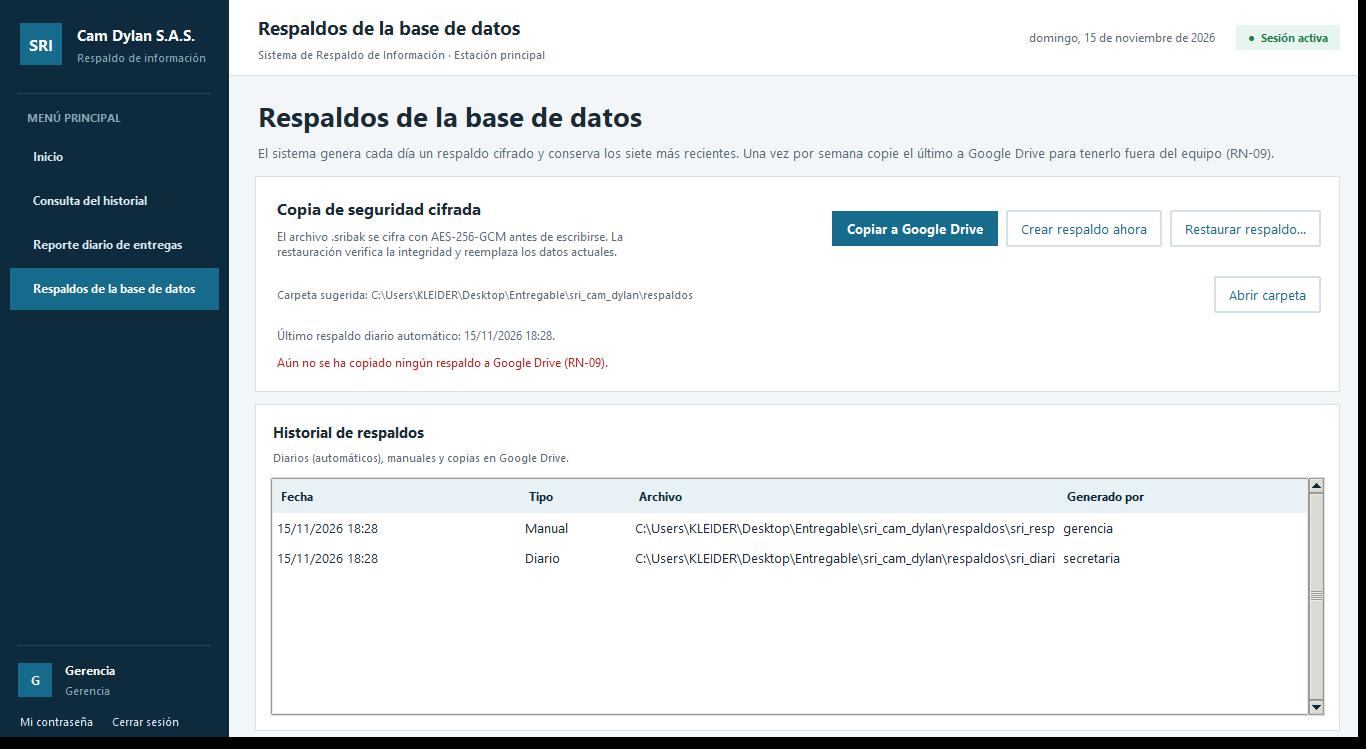
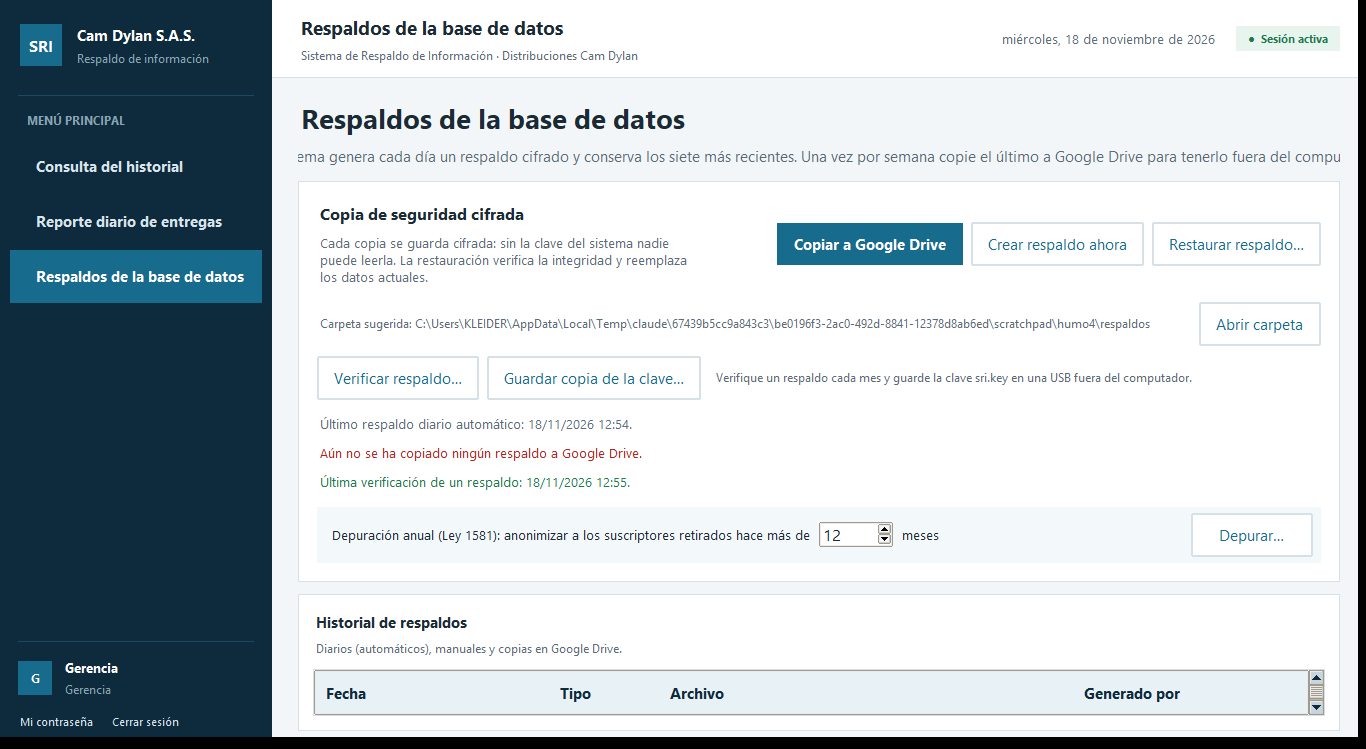
Quita la pantalla de Inicio y el botón «? Ayuda»
No forman parte de los diagramas del informe final. Al iniciar sesión se
abre la primera pantalla del menú de cada rol (Secretaría: Importar
listado; Gerencia: Consulta del historial).

- Se elimina vista_inicio.py, el tablero de ConsultasServicio y los
  contadores que solo usaba ese tablero.
- Manual, arquitectura, verificación y README sin Inicio ni Ayuda;
  capturas nuevas (8 vistas).

diff --git a/sri/presentacion/principal.py b/sri/presentacion/principal.py
@@ -4,7 +4,6 @@ from __future__ import annotations
 
 import tkinter as tk
 from datetime import date
-from tkinter import ttk
 
 from .dialogos import DialogoContrasena
 from .estilos import COLORES, FUENTE
@@ -12,7 +11,6 @@ from .vista_consultas import VistaConsultas
 from .vista_distribuidores import VistaDistribuidores
 from .vista_entregas import VistaEntregas
 from .vista_importacion import VistaImportacion
-from .vista_inicio import VistaInicio
 from .vista_novedades import VistaNovedades
 from .vista_reportes import VistaReportes
 from .vista_respaldos import VistaRespaldos
@@ -33,7 +31,6 @@ def fecha_larga() -> str:
 
 class ShellFrame(tk.Frame):
     VISTAS = {
-        "inicio": (VistaInicio, "Inicio", None),
         "importar": (VistaImportacion, "Importar listado de repartidores", "RF-01"),
         "novedades": (VistaNovedades, "Pasar el listado impreso", "RF-09"),
         "entregas": (VistaEntregas, "Lo que reportan los repartidores", "RF-05"),
@@ -44,33 +41,11 @@ class ShellFrame(tk.Frame):
         "respaldos": (VistaRespaldos, "Respaldos de la base de datos", "RF-07"),
     }
 
-    # Botón «? Ayuda»: para qué sirve cada pantalla, en dos líneas.
-    AYUDAS = {
-        "inicio": "Resumen del día y la rutina que falta.\nPulse cada paso de la rutina para ir a esa pantalla.",
-        "importar": "Carga el Excel de repartidores de la empresa, tal como está.\n"
-                    "Se usa al empezar o para volver a cargar el listado completo; antes, cree un respaldo.",
-        "novedades": "Aquí se pasan los ingresos, retiros y cambios que trae el listado impreso de la editorial.\n"
-                     "Un retiro no borra al suscriptor: queda en el historial.",
-        "entregas": "Aquí se registra solo lo que avisan los repartidores: lo que no se entregó o tuvo un problema.\n"
-                    "Al final de la jornada pulse «Cerrar el día»: lo que no se reportó se da por entregado.",
-        "rutas": "Cada ruta es de un solo repartidor. Aquí se crea, se cambia de repartidor\n"
-                 "y se imprime la hoja de ruta actualizada.",
-        "distribuidores": "Aquí se registran los repartidores y se dan de baja.\n"
-                          "Para dar de baja a uno, primero pase sus rutas a otro.",
-        "consultas": "Busque entregas o suscriptores, incluidos los retirados y los que no tienen entregas.\n"
-                     "Doble clic para ver la ficha completa del suscriptor.",
-        "reportes": "Resumen de un día: cuántas entregas había, cuántas se hicieron y qué novedades hubo.\n"
-                    "Se puede guardar en Excel o imprimir.",
-        "respaldos": "Las copias de seguridad se hacen solas cada día. Una vez por semana cópielas a Google Drive\n"
-                     "y una vez al mes pulse «Verificar respaldo».",
-    }
-
     def __init__(self, master, app):
         super().__init__(master, bg=COLORES["fondo"])
         self.app = app
         self.ctx = app.ctx
         self.sesion = app.sesion
-        app.vista = self  # disponible para las vistas que navegan desde accesos rápidos
         self._botones: dict[str, tk.Button] = {}
         self._clave_actual: str | None = None
         self._vista = None
@@ -81,7 +56,7 @@ class ShellFrame(tk.Frame):
         self._construir_encabezado()
         self.contenido = tk.Frame(self, bg=COLORES["fondo"], padx=26, pady=18)
         self.contenido.grid(row=1, column=1, sticky="nsew")
-        self.mostrar("inicio")
+        self.mostrar(next(iter(self._botones)))  # primera pantalla del menú de su rol
 
     # ------------------------------------------------------------------ #
     def _construir_barra_lateral(self) -> None:
@@ -180,7 +155,7 @@ class ShellFrame(tk.Frame):
 
         izquierda = tk.Frame(cabecera, bg=COLORES["panel"])
         izquierda.pack(side="left", padx=26, pady=12)
-        self.titulo = texto(izquierda, "Inicio", tamano=14, negrita=True)
+        self.titulo = texto(izquierda, "", tamano=14, negrita=True)
         self.titulo.pack(anchor="w")
         texto(
             izquierda,
@@ -191,9 +166,6 @@ class ShellFrame(tk.Frame):
 
         derecha = tk.Frame(cabecera, bg=COLORES["panel"])
         derecha.pack(side="right", padx=26)
-        ttk.Button(derecha, text="?  Ayuda", style="Secundario.TButton", command=self._ayuda).pack(
-            side="left", padx=(0, 18)
-        )
         texto(derecha, fecha_larga(), tamano=9, color=COLORES["texto_suave"]).pack(side="left", padx=(0, 18))
         estado = tk.Frame(derecha, bg="#e8f5ee")
         estado.pack(side="left")
@@ -234,12 +206,6 @@ class ShellFrame(tk.Frame):
         self.titulo.configure(text=titulo)
         self._vista = clase(self.contenido, self.app)
         self._vista.pack(fill="both", expand=True)
-
-    def _ayuda(self) -> None:
-        from tkinter import messagebox
-
-        clave = self._clave_actual or "inicio"
-        messagebox.showinfo(f"Ayuda · {self.VISTAS[clave][1]}", self.AYUDAS.get(clave, ""), parent=self)
 
     def _cambiar_contrasena(self) -> None:
         DialogoContrasena(self, self.app)

diff --git a/sri/servicios/consultas.py b/sri/servicios/consultas.py
@@ -8,8 +8,6 @@ from datetime import date
 from pathlib import Path
 
 from ..datos.daos import (
-    ArchivoDAO,
-    DistribuidorDAO,
     EntregaDAO,
     NovedadSuscripcionDAO,
     ReporteDAO,
@@ -35,18 +33,14 @@ class ConsultasServicio:
         suscriptores: SuscriptorDAO,
         entregas: EntregaDAO,
         rutas: RutaDAO,
-        distribuidores: DistribuidorDAO,
         reportes: ReporteDAO,
-        archivos: ArchivoDAO,
         auth: AutenticacionServicio,
         novedades: NovedadSuscripcionDAO,
     ):
         self.suscriptores = suscriptores
         self.entregas = entregas
         self.rutas = rutas
-        self.distribuidores = distribuidores
         self.reportes = reportes
-        self.archivos = archivos
         self.auth = auth
         self.novedades = novedades
 
@@ -263,29 +257,6 @@ class ConsultasServicio:
 </html>"""
         ruta.write_text(contenido, encoding="utf-8")
         return ruta
-
-    # ------------------------------------------------------------------ #
-    # Tablero de inicio
-    # ------------------------------------------------------------------ #
-    def dashboard(self, sesion: Sesion) -> dict:
-        self.auth.exigir(sesion, "RF-06")
-        hoy = date.today().isoformat()
-        estados = self.entregas.contar_por_estado(hoy)
-        total = sum(estados.values())
-        efectivas = estados.get("ENTREGADA", 0)
-        return {
-            "suscriptores": self.suscriptores.contar(solo_activos=True),
-            "rutas": self.rutas.contar(),
-            "distribuidores": self.distribuidores.contar_activos(),
-            "entregas_hoy": total,
-            "pendientes_hoy": estados.get("PENDIENTE", 0),
-            "reportes_hoy": estados.get("NO ENTREGADA", 0) + estados.get("CON NOVEDAD", 0),
-            "novedades_suscripcion_hoy": len(self.novedades.listar(fecha=hoy)),
-            "efectivas_hoy": efectivas,
-            "efectividad_hoy": round(efectivas / total * 100, 1) if total else None,
-            "estados_hoy": estados,
-            "importaciones": self.archivos.listar(5),
-        }
 
     @staticmethod
     def filas_novedades(reporte: ReporteDiario) -> list[tuple[str, str, str, str]]:

diff --git a/sri/datos/daos.py b/sri/datos/daos.py
@@ -122,9 +122,6 @@ class DistribuidorDAO:
     def cambiar_activo(self, distribuidor_id: int, activo: bool) -> None:
         self.bd.ejecutar("UPDATE distribuidor SET activo = ? WHERE id = ?", (1 if activo else 0, distribuidor_id))
 
-    def contar_activos(self) -> int:
-        return int(self.bd.uno("SELECT COUNT(*) FROM distribuidor WHERE activo = 1")[0])
-
 
 class RutaDAO:
     def __init__(self, bd: BaseDatos):
@@ -173,9 +170,6 @@ class RutaDAO:
 
     def asignar(self, ruta_id: int, distribuidor_id: int | None) -> None:
         self.bd.ejecutar("UPDATE ruta SET distribuidor_id = ? WHERE id = ?", (distribuidor_id, ruta_id))
-
-    def contar(self) -> int:
-        return int(self.bd.uno("SELECT COUNT(*) FROM ruta")[0])
 
     def contar_por_distribuidor(self, distribuidor_id: int) -> int:
         return int(

diff --git a/sri/contexto.py b/sri/contexto.py
@@ -87,9 +87,7 @@ class Contexto:
             self.suscriptores,
             self.entregas,
             self.rutas,
-            self.distribuidores,
             self.reportes,
-            self.archivos,
             self.auth,
             self.novedades,
         )

diff --git a/docs/MANUAL_USUARIO.md b/docs/MANUAL_USUARIO.md
@@ -24,8 +24,6 @@ Este manual describe el uso diario de la aplicación para los dos roles del proy
 
 ### Ayudas en pantalla
 
-- La pantalla de **Inicio** muestra la **rutina de hoy** con marcas (✓ hecho, ○ falta) y un botón **Ir** para cada paso.
-- Cada pantalla tiene un botón **? Ayuda** arriba a la derecha que explica para qué sirve.
 - Las fechas se eligen con **Hoy**, **Ayer** o **Calendario**; no hace falta escribirlas.
 - Los mensajes de error dicen qué hacer, por ejemplo: «La dirección no tiene número. Pregunte a la editorial por WhatsApp y regístrela después».
 
@@ -72,25 +70,13 @@ Este manual describe el uso diario de la aplicación para los dos roles del proy
 
 ---
 
-## 3. Pantalla de inicio
-
-![Pantalla de inicio](capturas/02_inicio.png)
-
-- **Suscriptores**: suscriptores activos (los retirados no cuentan).
-- **Rutas** y **Distribuidores** activos.
-- **Entregas de hoy**: entregas **programadas** para hoy según la periodicidad de cada suscriptor.
-- **Efectividad hoy**: entregadas ÷ programadas. Mientras el día no se cierre, las entregas sin novedad cuentan como pendientes.
-- **Tareas frecuentes** y **Últimas importaciones**.
-
----
-
-## 4. Importar el listado de repartidores (RF-01)
+## 3. Importar el listado de repartidores (RF-01)
 
 ![Importar listado](capturas/03_importar.png)
 
 Se usa para la **carga inicial** del Excel de la empresa y, si hace falta, para volver a cargar el listado completo. Las novedades del día a día **no** se importan: se registran en **Pasar el listado impreso**.
 
-### 4.1 Cómo debe estar el archivo
+### 3.1 Cómo debe estar el archivo
 
 Un libro `.xlsx` o `.xls` con **una hoja por distribuidor**. Cada hoja puede tener **una o varias listas lado a lado** (por ejemplo, A a F y H a M), y cada lista tiene estas columnas, como el archivo de la empresa (Anexo D, Figura 12):
 
@@ -105,9 +91,9 @@ Un libro `.xlsx` o `.xls` con **una hoja por distribuidor**. Cada hoja puede ten
 - **RUTA**: código con las iniciales del distribuidor (CP = Carlos Pérez).
 - La fila de encabezados puede estar después de un título; se busca en las primeras filas de cada hoja. Si el listado usa otros encabezados, agréguelos en `config.json` → `mapeo_columnas`.
 
-### 4.2 Importar
+### 3.2 Importar
 
-1. Registre primero los **distribuidores** (sección 8), para que los códigos de ruta se asocien solos.
+1. Registre primero los **distribuidores** (sección 7), para que los códigos de ruta se asocien solos.
 2. Abra **Importar listado de repartidores** y pulse **Crear respaldo ahora** en el recuadro amarillo: si el archivo trae algo inesperado, la Gerencia puede volver al estado anterior.
 3. Pulse **Seleccionar…**, elija el archivo y pulse **Importar**.
 4. Si hubo rechazos o casos para revisar, se abre la ventana **Revisar con la Gerencia** con la lista completa:
@@ -116,7 +102,7 @@ Un libro `.xlsx` o `.xls` con **una hoja por distribuidor**. Cada hoja puede ten
    - **Exportar a Excel (CSV)…** guarda la lista con columnas para anotar si se revisó y qué se decidió.
 5. Si una columna con datos no pertenece a ninguna lista (por ejemplo, teléfonos a la derecha sin encabezado NOMBRE), el sistema lo avisa en **Para revisar** con la letra de la columna, para que ningún dato se pierda sin aviso.
 
-### 4.3 Qué hace el sistema
+### 3.3 Qué hace el sistema
 
 - Separa la periodicidad del nombre y la guarda aparte.
 - **Asocia cada código de ruta a su distribuidor** por sus iniciales. Si el código no corresponde a un distribuidor activo (por ejemplo, «AL» de alguien que ya no trabaja), la ruta queda sin asignar y aparece en **Revisar**.
@@ -134,7 +120,7 @@ Un libro `.xlsx` o `.xls` con **una hoja por distribuidor**. Cada hoja puede ten
 
 ---
 
-## 5. Pasar el listado impreso (RF-09)
+## 4. Pasar el listado impreso (RF-09)
 
 ![Pasar el listado impreso](capturas/10_novedades.png)
 
@@ -156,7 +142,7 @@ Validaciones:
 
 ---
 
-## 6. Lo que reportan los repartidores y cierre del día (RF-05)
+## 5. Lo que reportan los repartidores y cierre del día (RF-05)
 
 ![Lo que reportan los repartidores](capturas/04_entregas.png)
 
@@ -171,7 +157,7 @@ Notas: no se admiten fechas futuras (RN-04); cada suscriptor tiene un solo estad
 
 ---
 
-## 7. Rutas y ruta imprimible (RF-02)
+## 6. Rutas y ruta imprimible (RF-02)
 
 ![Rutas y distribuidores](capturas/05_rutas.png)
 
@@ -183,7 +169,7 @@ Notas: no se admiten fechas futuras (RN-04); cada suscriptor tiene un solo estad
 
 ---
 
-## 8. Distribuidores (RF-04)
+## 7. Distribuidores (RF-04)
 
 ![Distribuidores](capturas/06_distribuidores.png)
 
@@ -193,7 +179,7 @@ Notas: no se admiten fechas futuras (RN-04); cada suscriptor tiene un solo estad
 
 ---
 
-## 9. Consulta del historial (RF-06)
+## 8. Consulta del historial (RF-06)
 
 ![Consulta del historial](capturas/07_consultas.png)
 
@@ -206,7 +192,7 @@ En **Buscar en** elija:
 
 ---
 
-## 10. Reporte diario de entregas (RF-03)
+## 9. Reporte diario de entregas (RF-03)
 
 ![Reporte diario](capturas/08_reportes.png)
 
@@ -217,7 +203,7 @@ En **Buscar en** elija:
 
 ---
 
-## 11. Respaldos (RF-07)
+## 10. Respaldos (RF-07)
 
 ![Respaldos](capturas/09_respaldos.png)
 
@@ -254,7 +240,7 @@ Una vez al año, indique el plazo (por ejemplo, 12 meses) y pulse **Depurar…**
 
 ---
 
-## 12. Solución de problemas
+## 11. Solución de problemas
 
 | Situación | Causa probable | Solución |
 |---|---|---|
@@ -272,7 +258,7 @@ Una vez al año, indique el plazo (por ejemplo, 12 meses) y pulse **Depurar…**
 
 ---
 
-## 13. Buenas prácticas y privacidad
+## 12. Buenas prácticas y privacidad
 
 - Use los datos únicamente con fines logísticos (RN-10, Ley 1581 de 2012).
 - No comparta contraseñas ni la clave `datos/sri.key`.
@@ -282,7 +268,7 @@ Una vez al año, indique el plazo (por ejemplo, 12 meses) y pulse **Depurar…**
 
 ---
 
-## 14. Glosario
+## 13. Glosario
 
 | Término | Significado |
 |---|---|

diff --git a/docs/ENTREGABLE.md b/docs/ENTREGABLE.md
@@ -17,7 +17,7 @@ Este documento funciona como acta de entrega: enumera los artefactos, relaciona 
 | Listado de repartidores de ejemplo (formato del Anexo D) | Entregado | `datos_ejemplo/` |
 | Respaldos cifrados de demostración (manual y diario) | Entregados | `respaldos/` |
 | Pruebas automatizadas | 31/31 OK | `pruebas/test_sri.py` |
-| Capturas de pantalla | 10 pantallas | `docs/capturas/` |
+| Capturas de pantalla | 9 pantallas | `docs/capturas/` |
 | Manual de usuario | Entregado | `docs/MANUAL_USUARIO.md` |
 | Documento de arquitectura | Entregado | `docs/ARQUITECTURA.md` |
 | Guion de sustentación | Entregado | `docs/GUION_SUSTENTACION.md` |
@@ -124,7 +124,7 @@ OK
 [RNF-02: importación de 10.000 registros en 2.23 s]
 ```
 
-Además se ejecutó una **prueba de humo de la interfaz** sobre una copia de la base demo: inicio de sesión con ambos roles, apertura de las 9 vistas, importación del listado actualizado, registro de una novedad de entrega, ruta imprimible y copia a Google Drive, sin excepciones de Tk. Las capturas de `docs/capturas/` provienen de esa prueba.
+Además se ejecutó una **prueba de humo de la interfaz** sobre una copia de la base demo: inicio de sesión con ambos roles, apertura de las 8 vistas, importación del listado actualizado, registro de una novedad de entrega, ruta imprimible y copia a Google Drive, sin excepciones de Tk. Las capturas de `docs/capturas/` provienen de esa prueba.
 
 ---
 
@@ -134,7 +134,7 @@ Además se ejecutó una **prueba de humo de la interfaz** sobre una copia de la 
 |---|---|---|
 | 1 | Ejecutar `run.bat` | Pantalla de inicio de sesión |
 | 2 | Ingresar `secretaria` / `Sri2026*` | Aviso «Aún no se ha copiado ningún respaldo a Google Drive»; menú con importar, novedades de suscripción, novedades de entrega, rutas, distribuidores e historial |
-| 3 | Revisar **Inicio** | 76 suscriptores activos, 5 rutas, 4 distribuidores y las entregas programadas de hoy |
+| 3 | Revisar **Rutas y distribuidores** | 5 rutas, cada una con su distribuidor, y 4 distribuidores activos |
 | 4 | **Pasar el listado impreso** | Novedades de hoy: 1 ingreso, 1 retiro y 1 cambio; registrar un ingreso con dirección «Centro» → mensaje de dirección incompleta |
 | 5 | **Lo que reportan los repartidores** | Entregas de hoy según la periodicidad; tocar a un suscriptor, elegir un motivo rápido y pulsar **Entregado con novedad**; luego **Cerrar el día…** → la confirmación dice cuántas se marcarán |
 | 6 | **Importar** `listado_repartidores_actualizado.xlsx` | 86 leídos = 3 nuevos + 81 actualizados + 2 rechazados, y 5 casos para revisar: periodicidad «quincenal», ruta AL en la hoja de Marta (ya es de Luis), el suscriptor retirado hoy (aparece en dos hojas) y un posible duplicado del suscriptor cuya dirección se cambió hoy |

diff --git a/docs/ARQUITECTURA.md b/docs/ARQUITECTURA.md
@@ -67,7 +67,7 @@ La composición se centraliza en `sri/contexto.py` (`Contexto`), que crea la con
 | `sri/servicios/lectores.py` | Estrategias de lectura para `.xlsx`, `.xls` y `.csv`; devuelven todas las hojas. |
 | `sri/servicios/suscripciones.py` | Novedades de suscripción del listado impreso: ingreso, retiro y cambio (RF-09). |
 | `sri/servicios/operativo.py` | Distribuidores, rutas, novedades de entrega, cierre del día y ruta imprimible. |
-| `sri/servicios/consultas.py` | Búsquedas, reporte diario sobre entregas programadas, exportaciones y tablero. |
+| `sri/servicios/consultas.py` | Búsquedas, reporte diario sobre entregas programadas, y exportaciones. |
 | `sri/servicios/respaldos.py` | Respaldo diario automático, retención de 7, copia a Google Drive, avisos y restauración. |
 | `sri/servicios/auditoria.py` | Bitácora de eventos sin datos personales. |
 | `sri/presentacion/*` | Interfaz: login, shell por rol, vistas y diálogos. |
@@ -355,7 +355,7 @@ Variables de entorno útiles para pruebas o demostraciones aisladas:
 - **Framework:** `unittest` de la biblioteca estándar.
 - **Aislamiento:** cada prueba crea una carpeta temporal, una base y una clave propias; nunca usa la base de demostración.
 - **Cobertura funcional:** autenticación, permisos, periodicidad, importación multihoja (XLSX y CSV), dos direcciones, códigos de ruta, archivo dañado, novedades de suscripción, programación y cierre del día, reporte, ruta imprimible, consultas, respaldo diario, retención, Google Drive, avisos, restauración y migración.
-- **Prueba de humo de interfaz:** inicio de sesión con ambos roles y recorrido de las 9 vistas con acciones reales, sin excepciones; de ahí salen las capturas de `docs/capturas/`.
+- **Prueba de humo de interfaz:** inicio de sesión con ambos roles y recorrido de las 8 vistas con acciones reales, sin excepciones; de ahí salen las capturas de `docs/capturas/`.
 
 Comando:
 

diff --git a/README.md b/README.md
@@ -4,7 +4,7 @@ Aplicación de escritorio para **Distribuciones Cam Dylan S.A.S.** que consolida
 
 Proyecto Integrador · Universidad de Santander · 2026. Alineado con el informe **Avance_informe_proyecto1_v5.3**.
 
-![Pantalla de inicio](docs/capturas/02_inicio.png)
+![Lo que reportan los repartidores](docs/capturas/04_entregas.png)
 
 ## 1. Alcance implementado
 
